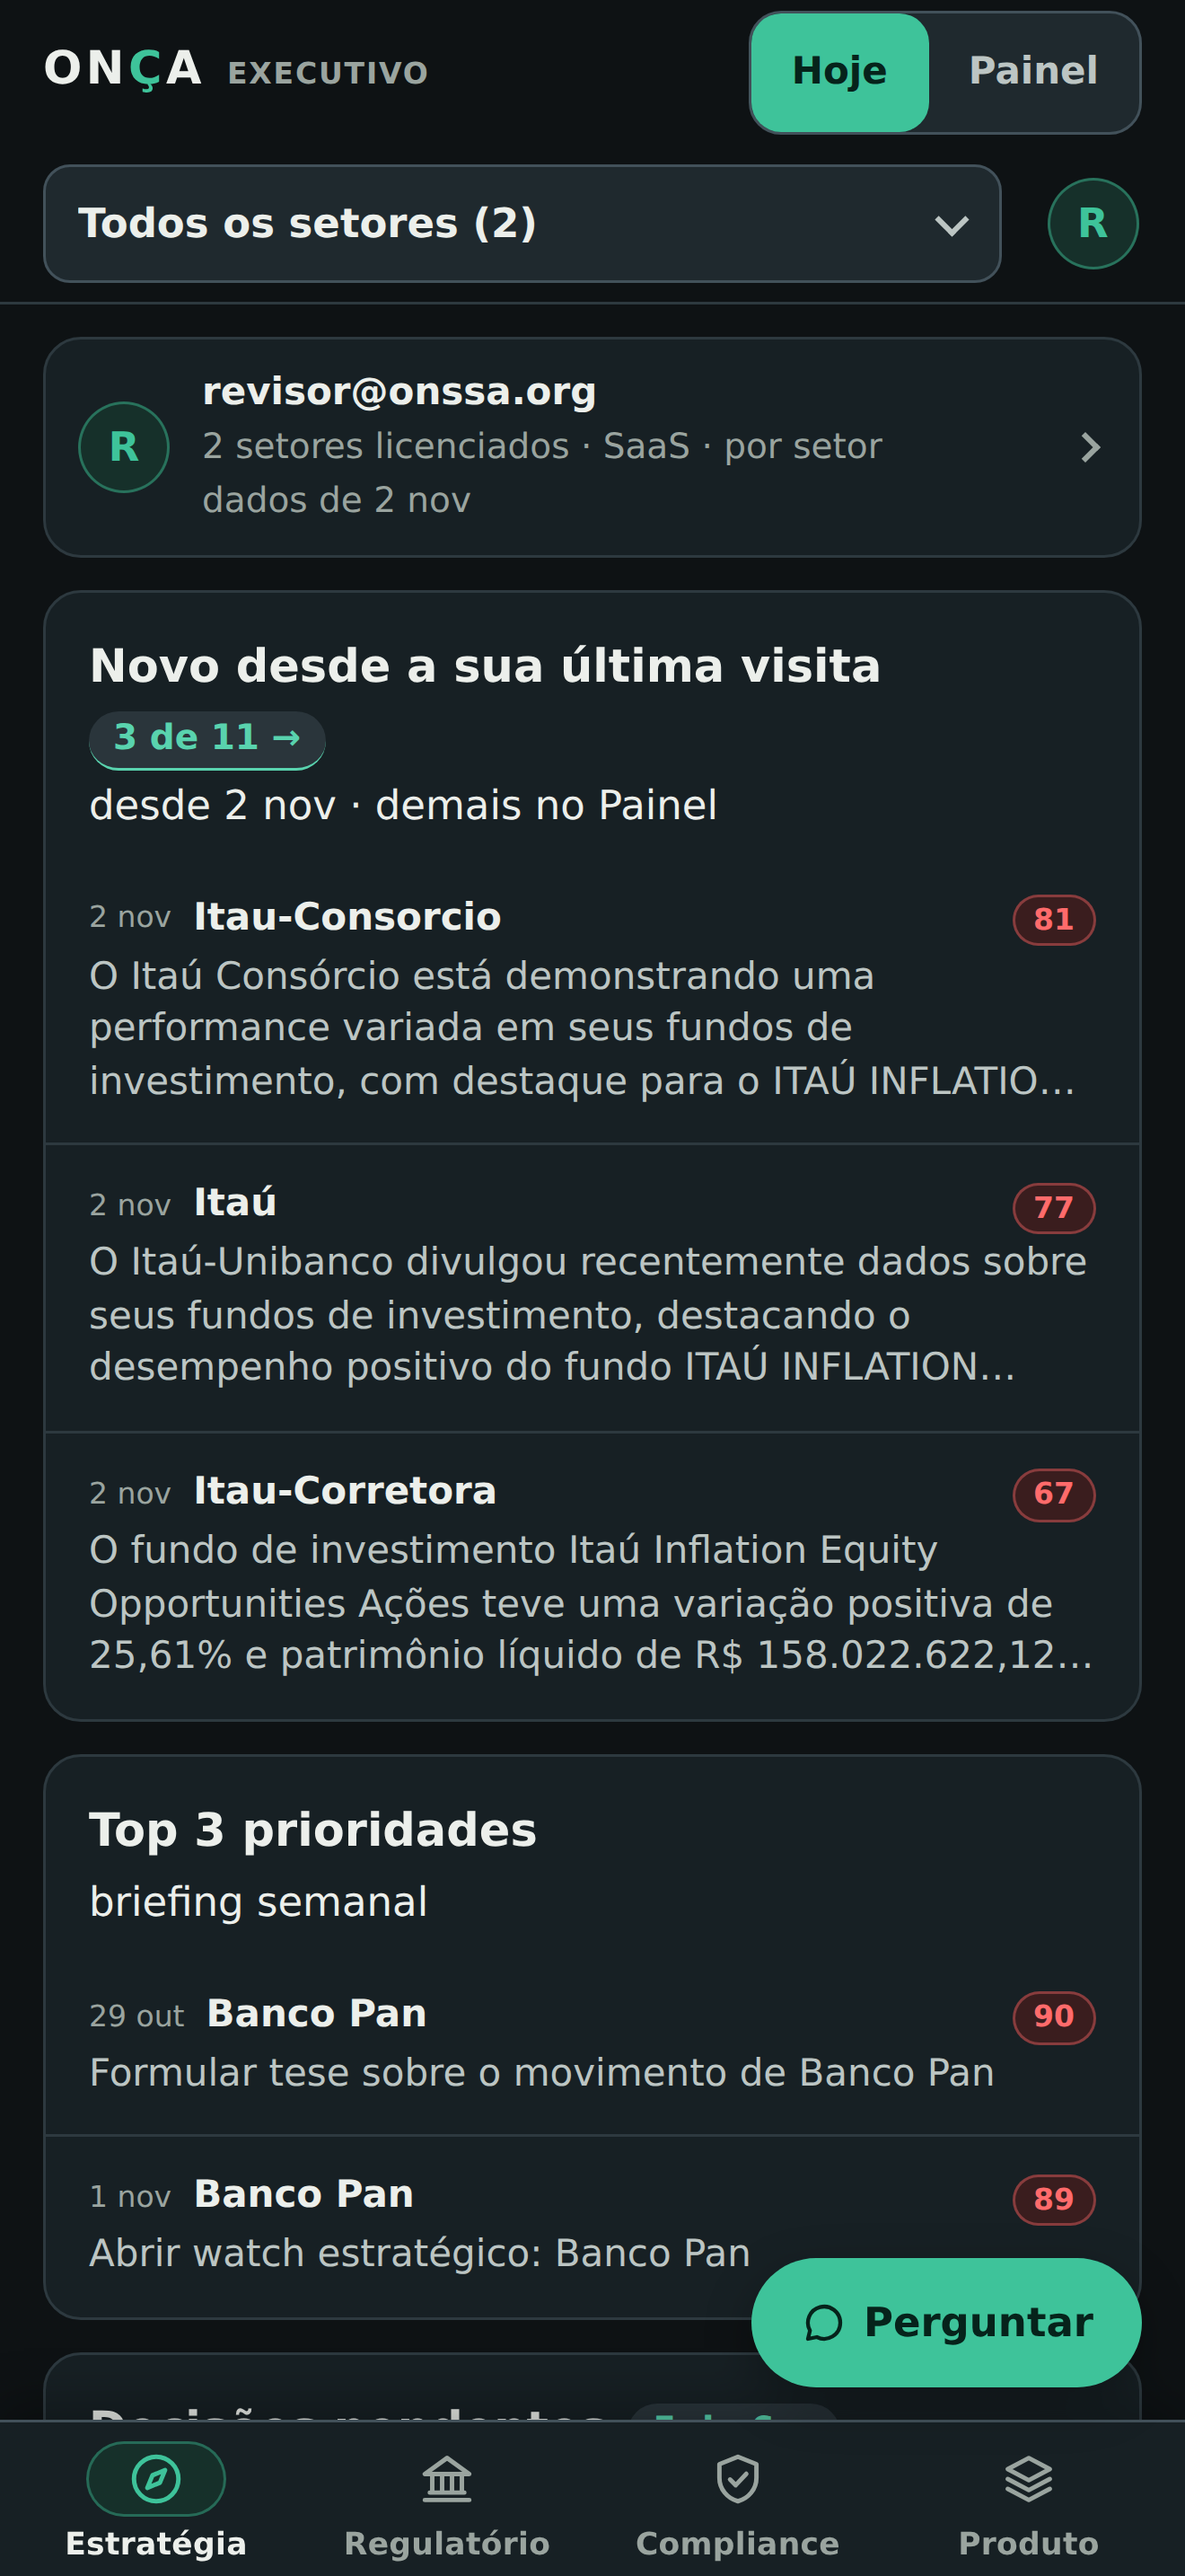
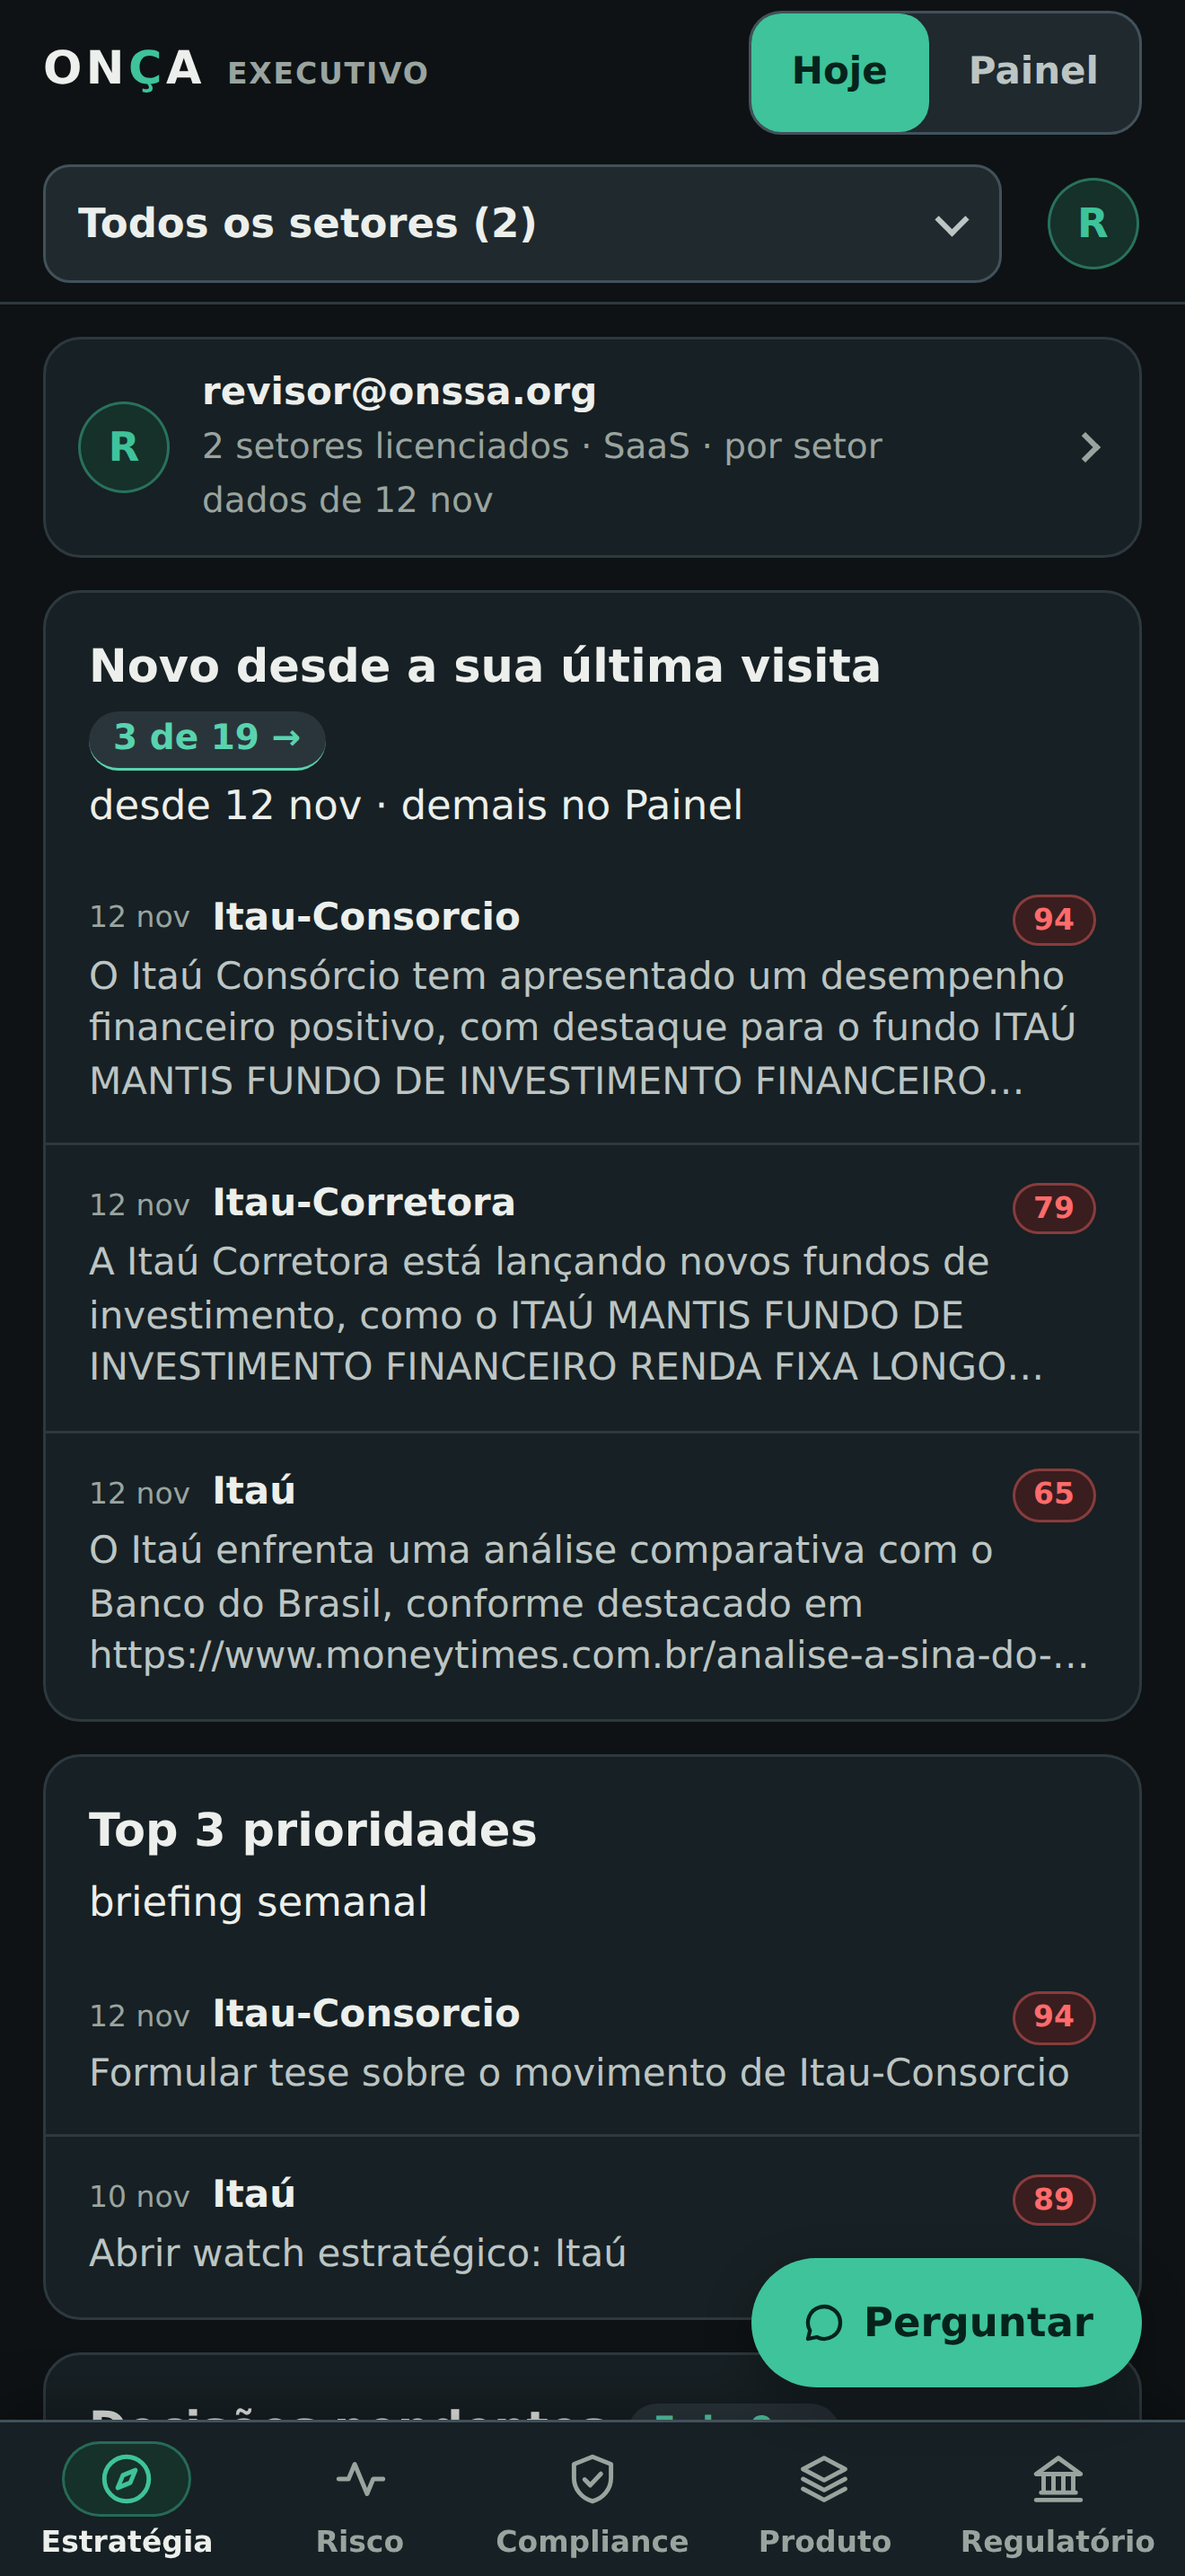
fix(exec): five-tab phone bar + mobile QA flow and store assets for ADR 032
- Phone tab bar was hard-coded to 4 columns, so Regulatório fell off-screen. Now
  repeat(5,minmax(0,1fr)), plus a ≤350px step so all five labels fit on a 320px phone.
- The article-diff rows (moved to Regulatório) overflowed a 320px viewport; the row header
  now wraps.
- Maestro tabbar flow waited on "(CSO)"-style headings that no longer exist → waits on
  "— <board>" for all five boards (mobile-qa CI would have failed).
- Store listing (pt-BR/en-US) names five boards; screenshots regenerated from the
  app-store-review tenant; the "officer" shot taps Regulatório by id.
- tests/test_exec_five_boards.py: board order, tab columns == board count, no acronyms,
  QA flow headings.

diff --git a/src/dashboard/site/v3/index.html b/src/dashboard/site/v3/index.html
@@ -719,15 +719,22 @@
 
     /* --- bottom tab bar (officers) --------------------------------------------- */
     #officerTabs { position:fixed; left:0; right:0; bottom:0; z-index:40; order:0; flex:none;
-      display:grid; grid-template-columns:repeat(4,1fr); gap:0; overflow:visible;
+      /* ADR 032: five boards — columns may shrink below the label width (minmax(0,…)) */
+      display:grid; grid-template-columns:repeat(5,minmax(0,1fr)); gap:0; overflow:visible;
       height:calc(var(--tabbar-h) + var(--safe-b)); padding:4px 4px var(--safe-b);
       background:var(--surface); border-top:1px solid var(--border-2);
       box-shadow:0 -6px 18px rgba(0,0,0,.28); }
     #officerTabs a { flex-direction:column; justify-content:center; align-items:center; gap:2px;
       min-height:50px; padding:2px 0; border:0; border-radius:12px; background:none;
-      color:var(--muted); font-size:11.5px; font-weight:600; letter-spacing:.1px; white-space:nowrap; }
+      color:var(--muted); font-size:11px; font-weight:600; letter-spacing:0; white-space:nowrap; min-width:0; }
+    #officerTabs a .ot-l { max-width:100%; overflow:hidden; text-overflow:ellipsis; }
+    @media (max-width:350px) {   /* 320px phones: five labels at 64px each */
+      #officerTabs { padding-left:0; padding-right:0; }
+      #officerTabs a { font-size:9.5px; letter-spacing:-.2px; overflow:hidden; }
+      #officerTabs a[aria-current="page"] .ot-l { font-weight:700; }
+      #officerTabs .ot-ic { width:40px; } }
     #officerTabs a .ot-k, #officerTabs a .ot-sep { display:none; }
-    #officerTabs .ot-ic { display:grid; place-items:center; width:52px; height:28px; border-radius:14px; }
+    #officerTabs .ot-ic { display:grid; place-items:center; width:48px; height:28px; border-radius:14px; }
     #officerTabs .ot-ic svg { width:22px; height:22px; }
     #officerTabs a[aria-current="page"] { color:var(--ink); background:none; border:0; }
     #officerTabs a[aria-current="page"] .ot-ic { background:var(--primary-weak); color:var(--primary);
@@ -3201,7 +3208,7 @@ function rowsChangeDiff(list) {
     const arts = (r.changes || []).map(ch => `${U.esc(ch.art || "?")} ${U.esc(ch.verb || "")}`).join(" · ");
     const dl = r.days_to_deadline != null ? `<span class="badge badge--${r.days_to_deadline <= 30 ? "high" : "med"}">prazo ${r.days_to_deadline}d</span>` : "";
     return `<div class="exrow" data-id="${U.esc(r.id || "")}" style="padding:var(--s2) var(--s3)">
-      <div style="display:flex;gap:var(--s2);align-items:baseline"><b style="flex:1;min-width:0">${U.esc(r.domain || r.title || "—")}</b>
+      <div style="display:flex;flex-wrap:wrap;gap:var(--s2);align-items:baseline"><b style="flex:1 1 12em;min-width:0;overflow-wrap:anywhere">${U.esc(r.domain || r.title || "—")}</b>
         <span class="badge badge--low">${pl(r.n_changes || 0, "mudança")}</span>${dl}</div>
       <div class="hd-note" style="margin-top:2px">${arts || U.esc((r.title || "").slice(0, 160))}</div></div>`;
   }).join("");

diff --git a/tests/test_exec_five_boards.py b/tests/test_exec_five_boards.py
@@ -1,0 +1,33 @@
+"""ADR 032: five boards with plain names — the page, the phone tab bar and the mobile QA flow
+must agree on the board count and never show a C-suite acronym."""
+import re
+from pathlib import Path
+
+ROOT = Path(__file__).resolve().parents[1]
+PAGE = (ROOT / "src/dashboard/site/v3/index.html").read_text(encoding="utf-8")
+
+
+def _officer_keys():
+    block = PAGE[PAGE.index("const OFFICERS = {"):PAGE.index("};", PAGE.index("const OFFICERS = {"))]
+    return re.findall(r"^\s{2}(\w+): \{ slug:", block, re.M)
+
+
+def test_five_boards_in_display_order():
+    assert _officer_keys() == ["cso", "risk", "cco", "cpo", "cro"]
+
+
+def test_phone_tab_bar_has_one_column_per_board():
+    m = re.search(r"#officerTabs \{[^}]*grid-template-columns:repeat\((\d+),", PAGE)
+    assert m and int(m.group(1)) == len(_officer_keys())
+
+
+def test_no_acronym_in_officer_labels():
+    block = PAGE[PAGE.index("const OFFICERS = {"):PAGE.index("};", PAGE.index("const OFFICERS = {"))]
+    assert not re.search(r"\b(CSO|CRO|CCO|CPO)\b", block)
+
+
+def test_mobile_qa_flow_waits_on_plain_board_headings():
+    flow = (ROOT / "mobile/apps/onca/maestro/tabbar.yaml").read_text(encoding="utf-8")
+    assert not re.search(r"\((CSO|CRO|CCO|CPO)\)", flow)
+    for name in ("Estratégia", "Risco", "Compliance", "Produto", "Regulatório"):
+        assert f'tapOn: "{name}"' in flow

diff --git a/scripts/store_screenshots.py b/scripts/store_screenshots.py
@@ -121,9 +121,11 @@ def main(argv: list[str] | None = None) -> int:
                             rows.first.click()
                             page.wait_for_timeout(700)
                     if action == "officer":
-                        tabs = page.locator("#officerTabs a, #officerTabs button")
-                        if tabs.count() > 1:
-                            tabs.nth(1).click()
+                        # ADR 032: tap Regulatório by name (the tab order changed; Risco names
+                        # institutions in liquidation, a poor store first impression)
+                        tab = page.locator('#officerTabs a[data-officer="cro"]')
+                        if tab.count():
+                            tab.first.click()
                             page.wait_for_timeout(700)
                     f = d / f"{label}.png"
                     page.screenshot(path=str(f))
